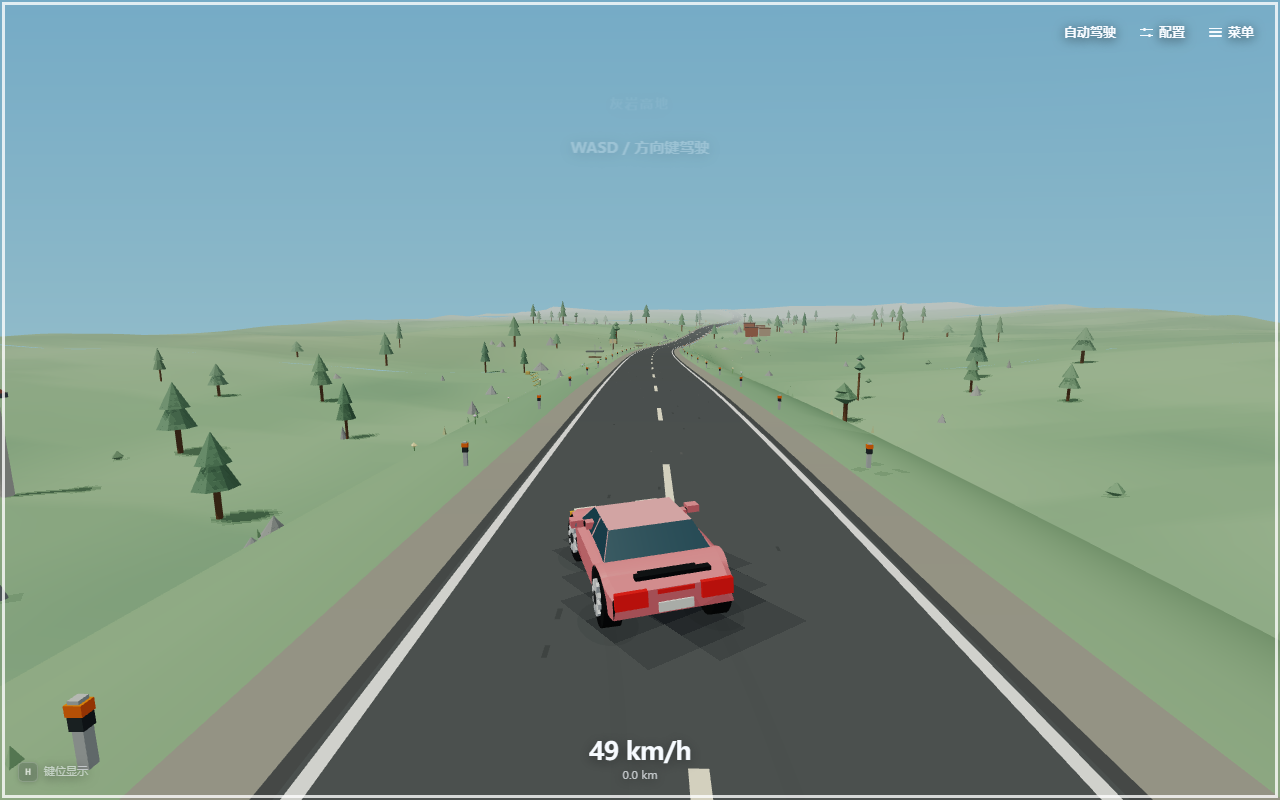
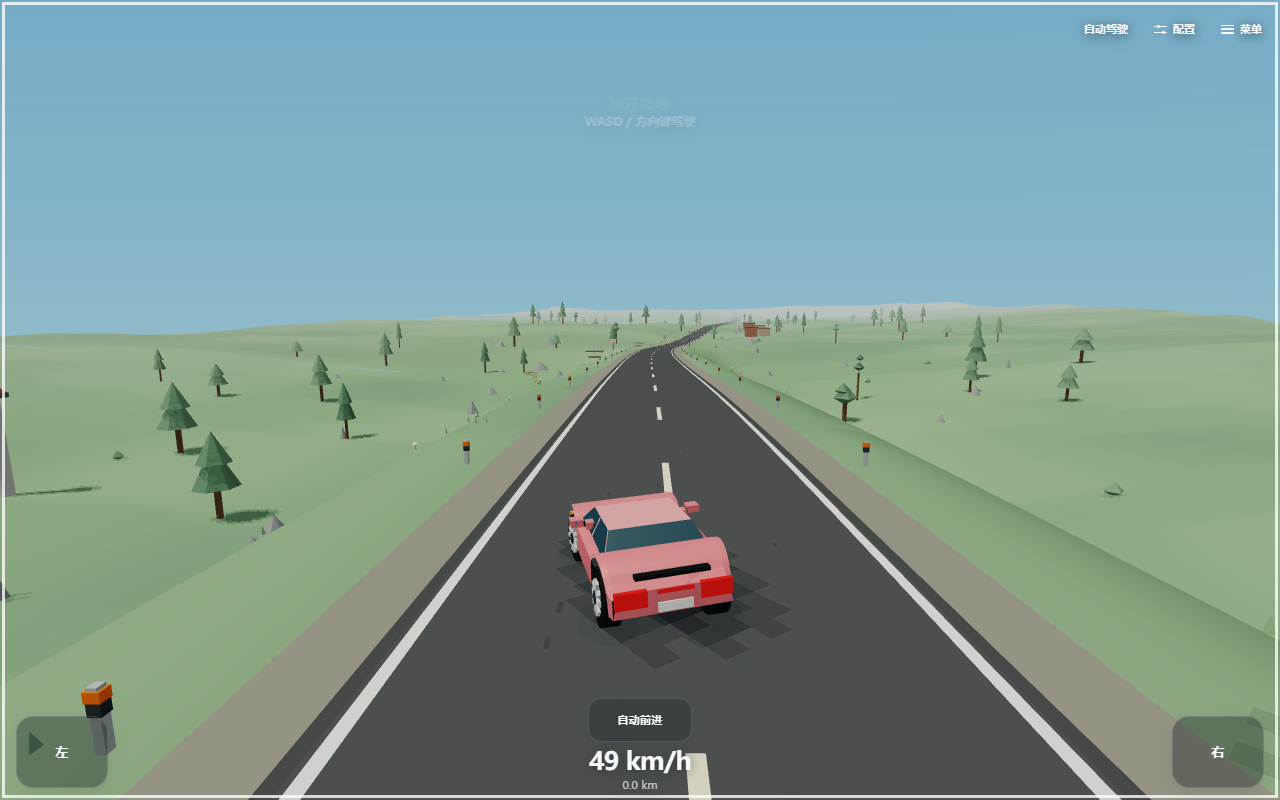
Fix mobile entry, multitouch controls, menu layering and wheel arch clearance

diff --git a/index.html b/index.html
@@ -145,10 +145,15 @@
      presentation remains intact, and coarse-pointer devices keep their essential touch controls.
      Keyboard users can always press U to restore the HUD even when the top-right buttons are hidden. */
   body.clean-ui:not(.garage) #stats,body.clean-ui:not(.garage) #topRight,body.clean-ui:not(.garage) #help,body.clean-ui:not(.garage) #clock,body.clean-ui:not(.garage) #fpsReadout,body.clean-ui:not(.garage) #regionToast,body.clean-ui:not(.garage) #hint{opacity:0!important;pointer-events:none!important}
-  @media (hover:none) and (pointer:coarse){body.clean-ui:not(.garage) #topRight{opacity:1!important;pointer-events:auto!important}}
+  @media all{
+    body.mobile-mode.clean-ui:not(.garage) #topRight{opacity:1!important;pointer-events:auto!important}
+  }
   #regionToast{position:absolute;left:50%;top:12.5%;transform:translate(-50%,-5px);font-size:13px;font-weight:650;letter-spacing:.16em;color:rgba(250,253,255,.88);opacity:0;transition:opacity .65s ease,transform .65s ease;text-shadow:0 2px 16px rgba(0,0,0,.52);white-space:nowrap}
   #regionToast.show{opacity:.92;transform:translate(-50%,0)}
-  #touchControls{display:none;position:absolute;inset:0;pointer-events:none}
+  #touchControls{display:none;position:absolute;inset:0;pointer-events:none;z-index:2}
+  #controlMenu,#configPanel,#aboutPanel,#vehiclePanel{z-index:6}
+  #topRight{z-index:7}
+  body.mobile-mode #controlMenu{max-height:calc(100% - 60px);overflow-y:auto;overscroll-behavior:contain;background:rgba(18,24,31,.96)}
   .touchGroup{display:flex;gap:9px;align-items:end;pointer-events:auto}
   .touchBtn{min-width:76px;height:56px;border-radius:17px;padding:0 10px;font-size:12px;font-weight:700;letter-spacing:.02em;touch-action:none;-webkit-user-select:none;user-select:none;background:rgba(18,24,31,.36);border-color:rgba(255,255,255,.13);box-shadow:0 5px 18px rgba(0,0,0,.08)}
   .touchBtn.primary{width:88px;height:72px;font-size:13px}
@@ -179,57 +184,87 @@
   .paintChoice{width:30px;height:30px;min-width:30px;min-height:30px;padding:0;border-radius:50%;box-shadow:none;border:2px solid rgba(255,255,255,.28)}
   .paintChoice[aria-pressed="true"]{outline:2px solid rgba(255,255,255,.90);outline-offset:2px}
   @media(max-width:700px){#speed{font-size:21px}button{padding:7px 9px}}
-  @media (hover:none) and (pointer:coarse){
-    #touchControls{display:block}
-    #speedFx::before{filter:none;opacity:.72}
-    #speedFx::after{filter:blur(3px)}
-    #help{display:none}.glass,button{backdrop-filter:none;-webkit-backdrop-filter:none}
-    #stats{left:50%;right:auto;top:auto;bottom:max(8px,env(safe-area-inset-bottom));transform:translateX(-50%);text-align:center}
-    #topRight{right:max(9px,env(safe-area-inset-right));top:7px}
-     #configBtn,#menuBtn,#autopilotBtn{font-size:11px;padding:5px 6px}
-    #controlMenu{right:max(8px,env(safe-area-inset-right));top:39px;width:190px;padding:7px}
-    #aboutPanel{right:max(8px,env(safe-area-inset-right));top:39px;width:min(290px,calc(100% - 16px));max-height:calc(100% - 50px)}
-    #controlMenu .menuAction{min-height:30px;padding:6px 8px;font-size:10.5px}
-    #controlMenu .mobileOnly{display:block}
-    #controlMenu .desktopOnly{display:none}
-    #clock{left:max(10px,env(safe-area-inset-left));right:auto;top:10px;bottom:auto;font-size:11px}
-    #fpsReadout{left:max(10px,env(safe-area-inset-left));top:26px;font-size:9.5px}
-    #hint{top:15%;font-size:12px}
-    #vehiclePanel{right:max(8px,env(safe-area-inset-right));top:39px;width:232px;padding:10px}#configPanel{right:max(8px,env(safe-area-inset-right));top:39px;width:284px;padding:9px 10px;max-height:calc(100% - 48px)}.configRow{grid-template-columns:82px 1fr 42px 18px;gap:5px;min-height:27px}.configLabel{font-size:9.5px}.configValue{font-size:9px}.configToggleRow{font-size:9px;min-height:25px}.configCheck{width:14px;height:14px;min-width:14px}
+  @media all{
+    body.mobile-mode #touchControls{display:block}
+    body.mobile-mode #speedFx::before{filter:none;opacity:.72}
+    body.mobile-mode #speedFx::after{filter:blur(3px)}
+    body.mobile-mode #help{display:none}
+    body.mobile-mode .glass,body.mobile-mode button{backdrop-filter:none;-webkit-backdrop-filter:none}
+    body.mobile-mode #stats{left:50%;right:auto;top:auto;bottom:max(8px,env(safe-area-inset-bottom));transform:translateX(-50%);text-align:center}
+    body.mobile-mode #topRight{right:max(9px,env(safe-area-inset-right));top:7px}
+    body.mobile-mode #configBtn,body.mobile-mode #menuBtn,body.mobile-mode #autopilotBtn{font-size:11px;padding:5px 6px}
+    body.mobile-mode #controlMenu{right:max(8px,env(safe-area-inset-right));top:39px;width:190px;padding:7px}
+    body.mobile-mode #aboutPanel{right:max(8px,env(safe-area-inset-right));top:39px;width:min(290px,calc(100% - 16px));max-height:calc(100% - 50px)}
+    body.mobile-mode #controlMenu .menuAction{min-height:30px;padding:6px 8px;font-size:10.5px}
+    body.mobile-mode #controlMenu .mobileOnly{display:block}
+    body.mobile-mode #controlMenu .desktopOnly{display:none}
+    body.mobile-mode #clock{left:max(10px,env(safe-area-inset-left));right:auto;top:10px;bottom:auto;font-size:11px}
+    body.mobile-mode #fpsReadout{left:max(10px,env(safe-area-inset-left));top:26px;font-size:9.5px}
+    body.mobile-mode #hint{top:15%;font-size:12px}
+    body.mobile-mode #vehiclePanel{right:max(8px,env(safe-area-inset-right));top:39px;width:232px;padding:10px}
+    body.mobile-mode #configPanel{right:max(8px,env(safe-area-inset-right));top:39px;width:284px;padding:9px 10px;max-height:calc(100% - 48px)}
+    body.mobile-mode .configRow{grid-template-columns:82px 1fr 42px 18px;gap:5px;min-height:27px}
+    body.mobile-mode .configLabel{font-size:9.5px}
+    body.mobile-mode .configValue{font-size:9px}
+    body.mobile-mode .configToggleRow{font-size:9px;min-height:25px}
+    body.mobile-mode .configCheck{width:14px;height:14px;min-width:14px}
   }
-  @media (hover:none) and (pointer:coarse) and (max-height:410px){
-    .touchBtn{height:46px;min-width:66px}.touchBtn.primary{width:76px;height:62px}#touchPedals{grid-template-columns:68px 68px}#touchBrake{width:143px}#touchSimple .simpleSteer{width:82px;height:62px}#touchAutoForward{bottom:52px;height:36px;min-width:94px;font-size:10px}
-    #topRight{right:6px;top:5px} #configBtn,#menuBtn,#autopilotBtn{font-size:10px;padding:4px 5px}#controlMenu{right:6px;top:34px;width:176px}#controlMenu .menuAction{min-height:27px;padding:5px 7px;font-size:9.5px}#aboutPanel{right:6px;top:34px;width:min(276px,calc(100% - 12px))}
-    #stats{bottom:7px}#speed{font-size:19px}#distance{font-size:11px;margin-top:3px}
+  @media (max-height:410px){
+    body.mobile-mode .touchBtn{height:46px;min-width:66px}
+    body.mobile-mode .touchBtn.primary{width:76px;height:62px}
+    body.mobile-mode #touchPedals{grid-template-columns:68px 68px}
+    body.mobile-mode #touchBrake{width:143px}
+    body.mobile-mode #touchSimple .simpleSteer{width:82px;height:62px}
+    body.mobile-mode #touchAutoForward{bottom:52px;height:36px;min-width:94px;font-size:10px}
+    body.mobile-mode #topRight{right:6px;top:5px}
+    body.mobile-mode #configBtn,body.mobile-mode #menuBtn,body.mobile-mode #autopilotBtn{font-size:10px;padding:4px 5px}
+    body.mobile-mode #controlMenu{right:6px;top:34px;width:176px}
+    body.mobile-mode #controlMenu .menuAction{min-height:27px;padding:5px 7px;font-size:9.5px}
+    body.mobile-mode #aboutPanel{right:6px;top:34px;width:min(276px,calc(100% - 12px))}
+    body.mobile-mode #stats{bottom:7px}
+    body.mobile-mode #speed{font-size:19px}
+    body.mobile-mode #distance{font-size:11px;margin-top:3px}
   }
   /* Garage / title presentation: the same WebGL car is shown live before driving starts. */
   #garageOverlay{position:absolute;inset:0;z-index:8;display:flex;align-items:flex-end;justify-content:space-between;padding:clamp(24px,5vw,72px);pointer-events:none;transition:opacity .35s ease,visibility .35s ease}
   #garageCard{max-width:420px;padding:22px 24px;border-left:2px solid rgba(255,255,255,.72);background:linear-gradient(90deg,rgba(12,17,22,.38),rgba(12,17,22,0));text-shadow:0 3px 18px rgba(0,0,0,.48)}
   #garageTitle{font-size:clamp(34px,5vw,68px);line-height:.92;font-weight:760;letter-spacing:-.055em}
   #garageSub{margin-top:10px;font-size:12px;color:rgba(247,251,255,.70);letter-spacing:.18em}
-  #garageActions{margin-top:19px;display:flex;gap:8px;pointer-events:auto}
+  #garageActions{margin-top:19px;display:grid;grid-template-columns:auto auto;gap:8px;pointer-events:auto}
+  #garageMobileStart{grid-row:2;grid-column:1 / -1}
   #garageActions button{min-height:40px;padding:9px 15px;border-radius:11px;font-size:12px;font-weight:680}
   #garageStart{background:rgba(239,247,246,.92);color:#243039;text-shadow:none;border-color:rgba(255,255,255,.72)}
   #garageVehicle{background:rgba(15,23,29,.42)}
   #garageTip{position:absolute;right:clamp(22px,4vw,58px);bottom:clamp(24px,5vw,66px);font-size:10px;letter-spacing:.12em;color:rgba(247,251,255,.48)}
   body.garage canvas{cursor:grab;touch-action:none}body.garage canvas:active{cursor:grabbing}
   body:not(.garage) #garageOverlay{opacity:0;visibility:hidden}
+  body:not(.garage) #garageActions,body:not(.garage) #garageActions button{pointer-events:none}
   body.garage #stats,body.garage #topRight,body.garage #help,body.garage #touchControls,body.garage #hint,body.garage #regionToast{opacity:0!important;pointer-events:none!important}
   body.garage #clock,body.garage #fpsReadout{opacity:.55}
-  @media (hover:none) and (pointer:coarse){#garageOverlay{padding:18px 22px}#garageCard{padding:14px 16px;max-width:330px}#garageSub{font-size:9px}#garageActions button{min-height:34px;padding:7px 12px;font-size:10px}#garageTip{display:none}}
+  @media all{
+    body.mobile-mode #garageOverlay{padding:18px 22px}
+    body.mobile-mode #garageCard{padding:14px 16px;max-width:330px}
+    body.mobile-mode #garageSub{font-size:9px}
+    body.mobile-mode #garageActions button{min-height:34px;padding:7px 12px;font-size:10px}
+    body.mobile-mode #garageTip{display:none}
+  }
   /* Accessibility / touch maintenance: keep coarse-pointer targets finger-sized without changing the compact desktop visual language. */
-  @media (hover:none) and (pointer:coarse){
-    #configBtn,#menuBtn,#autopilotBtn{min-width:44px!important;min-height:44px!important;padding:8px 9px!important}
-    #controlMenu .menuAction{min-height:44px!important;font-size:12px!important}
-    #configPanel{width:min(340px,calc(100% - 16px))!important}
-    .configTabs{gap:4px}.configTab{height:44px!important;min-height:44px!important;font-size:12px!important}
-    .configRow{grid-template-columns:92px 1fr 50px 44px!important;gap:6px!important;min-height:44px!important}
-    .configLabel{font-size:12px!important}.configValue{font-size:10.5px!important}.configRange{height:44px!important}
-    .configRange::-webkit-slider-thumb{width:20px;height:20px;margin-top:-9px}.configRange::-moz-range-thumb{width:20px;height:20px}
-    .configToggleRow{grid-template-columns:1fr 22px 44px!important;min-height:44px!important;font-size:12px!important}
-    .configCheck{width:20px!important;height:20px!important;min-width:20px!important}
-    .configItemReset{width:44px!important;height:44px!important;min-width:44px!important;min-height:44px!important}
-    #garageActions button{min-height:44px!important;font-size:12px!important}
+  @media all{
+    body.mobile-mode #configBtn,body.mobile-mode #menuBtn,body.mobile-mode #autopilotBtn{min-width:44px!important;min-height:44px!important;padding:8px 9px!important}
+    body.mobile-mode #controlMenu .menuAction{min-height:44px!important;font-size:12px!important}
+    body.mobile-mode #configPanel{width:min(340px,calc(100% - 16px))!important}
+    body.mobile-mode .configTabs{gap:4px}
+    body.mobile-mode .configTab{height:44px!important;min-height:44px!important;font-size:12px!important}
+    body.mobile-mode .configRow{grid-template-columns:92px 1fr 50px 44px!important;gap:6px!important;min-height:44px!important}
+    body.mobile-mode .configLabel{font-size:12px!important}
+    body.mobile-mode .configValue{font-size:10.5px!important}
+    body.mobile-mode .configRange{height:44px!important}
+    body.mobile-mode .configRange::-webkit-slider-thumb{width:20px;height:20px;margin-top:-9px}
+    body.mobile-mode .configRange::-moz-range-thumb{width:20px;height:20px}
+    body.mobile-mode .configToggleRow{grid-template-columns:1fr 22px 44px!important;min-height:44px!important;font-size:12px!important}
+    body.mobile-mode .configCheck{width:20px!important;height:20px!important;min-width:20px!important}
+    body.mobile-mode .configItemReset{width:44px!important;height:44px!important;min-width:44px!important;min-height:44px!important}
+    body.mobile-mode #garageActions button{min-height:44px!important;font-size:12px!important}
   }
   @media (prefers-reduced-motion: reduce){
     .windStreak{animation:none!important}#speedFx,#windFx{display:none!important}
@@ -237,10 +272,9 @@
     .menuMorph i,.configMorph i,.actionSvg *,.configGroupSummary::after,.configItemReset,#hint,#regionToast,#garageOverlay,#help .helpSummary,#help .helpDetails{transition:none!important}
   }
   /* Portrait phones still render the game as a landscape surface. No orientation lock or sensor takeover. */
-  @media (hover:none) and (pointer:coarse) and (orientation:portrait){
-    canvas,#ui{position:fixed;inset:auto;left:50%;top:50%;width:100vh;height:100vw;transform:translate(-50%,-50%) rotate(90deg);transform-origin:center center}
-    /* The whole UI is rotated, so its local vertical scroll axis maps to the device X axis. */
-    #configPanel,.configRange,.configToggleRow,.configCheck,.configGroupSummary{touch-action:pan-x}
+  @media (orientation:portrait){
+    body.mobile-mode canvas,body.mobile-mode #ui{position:fixed;inset:auto;left:50%;top:50%;width:100vh;height:100vw;transform:translate(-50%,-50%) rotate(90deg);transform-origin:center center}
+    body.mobile-mode #configPanel,body.mobile-mode .configRange,body.mobile-mode .configToggleRow,body.mobile-mode .configCheck,body.mobile-mode .configGroupSummary{touch-action:pan-x}
   }
 </style>
 </head>
@@ -253,6 +287,7 @@
       <div id="garageSub">DRIVE · BREATHE · KEEP GOING</div>
       <div id="garageActions">
         <button id="garageStart" type="button">开始驾驶</button>
+        <button id="garageMobileStart" type="button">移动端开始 · 触控驾驶</button>
         <button id="garageVehicle" type="button">查看载具</button>
       </div>
     </div>
@@ -507,7 +542,13 @@ const $touchAutoForward = document.getElementById('touchAutoForward');
 const $garageOverlay = document.getElementById('garageOverlay');
 const $garageStart = document.getElementById('garageStart');
 const $garageVehicle = document.getElementById('garageVehicle');
-const IS_COARSE_POINTER = window.matchMedia ? window.matchMedia('(hover:none) and (pointer:coarse)').matches : false;
+let IS_COARSE_POINTER = (navigator.maxTouchPoints||0)>0 || !!window.matchMedia?.('(any-pointer:coarse)').matches;
+try{IS_COARSE_POINTER=IS_COARSE_POINTER||localStorage.getItem('driftway-mobile-mode')==='true';}catch(_){}
+document.body.classList.toggle('mobile-mode',IS_COARSE_POINTER);
+function enableMobileMode(){
+  IS_COARSE_POINTER=true;document.body.classList.add('mobile-mode');
+  try{localStorage.setItem('driftway-mobile-mode','true');}catch(_){}
+}
 const REDUCED_MOTION_QUERY = window.matchMedia ? window.matchMedia('(prefers-reduced-motion: reduce)') : {matches:false};
 const reducedMotionActive = ()=>!!REDUCED_MOTION_QUERY.matches;
 
@@ -1029,7 +1070,7 @@ class Renderer{
     this.shadowStatus=parts.length?parts.join(' + '):'投影';
   }
   resize(){
-    const touchCoarse=matchMedia('(hover:none) and (pointer:coarse)').matches,forcedLandscape=touchCoarse&&innerHeight>innerWidth;
+    const forcedLandscape=IS_COARSE_POINTER&&innerHeight>innerWidth;
     const cssW=forcedLandscape?innerHeight:innerWidth,cssH=forcedLandscape?innerWidth:innerHeight;
     const dpr=Math.min(window.devicePixelRatio||1,this.maxDpr)*clamp(this.renderScale,.50,1.50), w=Math.max(2,Math.floor(cssW*dpr)), h=Math.max(2,Math.floor(cssH*dpr));
     if(canvas.width!==w||canvas.height!==h){canvas.width=w;canvas.height=h;} this.gl.viewport(0,0,w,h);
@@ -1139,6 +1180,7 @@ function appendRock(b,x,y,z,r,h,c,rng){
 function createBoxMesh(gl,c){const b=new Builder();appendBox(b,0,0,0,1,1,1,c);const a=b.arrays(),m=new Mesh(gl);m.update(a[0],a[1]);return m;}
 // A continuous coachbuilt shell, with open wheel arches (not boxes over the tyres).
 // All dimensions are metres; generated vertices remain embedded in this document.
+const WHEEL_ARCH_RADIUS=.48,WHEEL_MAX_BUMP=.10,WHEEL_MOUNT_Y=-.09;
 function createCoachMesh(gl,st,paint,cabin=false){
   const b=new Builder(),face=(a,d,e,f,c)=>{const u=d.map((v,i)=>v-a[i]),v=e.map((n,i)=>n-a[i]);let n=[u[1]*v[2]-u[2]*v[1],u[2]*v[0]-u[0]*v[2],u[0]*v[1]-u[1]*v[0]],l=Math.hypot(...n)||1;b.quad(a,d,e,f,n.map(v=>v/l),c);};
   if(cabin){
@@ -1160,7 +1202,7 @@ function createCoachMesh(gl,st,paint,cabin=false){
   }else{
     const len=st.body[2],half=st.body[0]/2,N=100;
     const section=z=>{const t=Math.abs(z)/(len/2),w=half*(1-.10*Math.pow(t,5));let bottom=-.12;
-      for(const axle of [st.frontZ,st.rearZ]){const dz=z-axle;if(Math.abs(dz)<.46)bottom=Math.max(bottom,-.11+Math.sqrt(.46*.46-dz*dz));}
+      for(const axle of [st.frontZ,st.rearZ]){const dz=z-axle;if(Math.abs(dz)<WHEEL_ARCH_RADIUS)bottom=Math.max(bottom,WHEEL_MOUNT_Y+WHEEL_MAX_BUMP+Math.sqrt(WHEEL_ARCH_RADIUS**2-dz*dz));}
       const top=.38-.16*Math.pow(t,3);return [[-w,bottom,z],[-w,Math.max(bottom+.018,top-.07),z],[-w*.90,Math.max(bottom+.025,top),z],[w*.90,Math.max(bottom+.025,top),z],[w,Math.max(bottom+.018,top-.07),z],[w,bottom,z]];};
     let prev=section(-len/2);
     for(let j=1;j<=N;j++){const next=section(-len/2+len*j/N);for(let k=0;k<5;k++)face(prev[k],next[k],next[k+1],prev[k+1],paint);prev=next;}
@@ -1836,14 +1878,15 @@ class ChunkManager{
 */
 class Input{
   constructor(){
-    this.keys=new Set();this.just=new Set();this.virtualKeys=new Set();
+    this.keys=new Set();this.just=new Set();this.virtualKeys=new Set();this.touchPointers=new Map();
     addEventListener('keydown',e=>{
       if(this.isInteractiveTarget(e.target))return;
       const k=e.code;if(['ArrowUp','ArrowDown','ArrowLeft','ArrowRight','Space'].includes(k))e.preventDefault();
       if(!this.keys.has(k))this.just.add(k);this.keys.add(k);game?.audio.ensureStarted();
     },{passive:false});
     addEventListener('keyup',e=>this.keys.delete(e.code));
-    addEventListener('blur',()=>{if(document.hidden||!document.hasFocus()){this.keys.clear();this.virtualKeys.clear();$touchControls?.querySelectorAll('.active').forEach(btn=>btn.classList.remove('active'));}});
+    addEventListener('blur',()=>{if(document.hidden||!document.hasFocus()){this.keys.clear();this.clearTouch();}});
+    document.addEventListener('visibilitychange',()=>{if(document.hidden){this.keys.clear();this.clearTouch();}});
     this.bindTouchControls();
   }
   isInteractiveTarget(target){return target instanceof Element && !!target.closest('button,input,select,textarea,a,[role="button"]');}
@@ -1851,11 +1894,24 @@ class Input{
     if(!$touchControls)return;
     for(const btn of $touchControls.querySelectorAll('[data-key]')){
       const code=btn.dataset.key;
-      const release=e=>{this.virtualKeys.delete(code);btn.classList.remove('active');try{if(e&&Number.isFinite(e.pointerId)&&btn.hasPointerCapture?.(e.pointerId))btn.releasePointerCapture(e.pointerId);}catch(_){}};
-      btn.addEventListener('pointerdown',e=>{e.preventDefault();btn.setPointerCapture?.(e.pointerId);if(!this.virtualKeys.has(code))this.just.add(code);this.virtualKeys.add(code);btn.classList.add('active');game?.audio.ensureStarted();},{passive:false});
+      const release=e=>{
+        if(this.touchPointers.get(e.pointerId)?.button!==btn)return;
+        this.touchPointers.delete(e.pointerId);
+        if(![...this.touchPointers.values()].some(p=>p.code===code))this.virtualKeys.delete(code);
+        if(![...this.touchPointers.values()].some(p=>p.button===btn))btn.classList.remove('active');
+        try{if(btn.hasPointerCapture?.(e.pointerId))btn.releasePointerCapture(e.pointerId);}catch(_){}
+      };
+      btn.addEventListener('pointerdown',e=>{
+        e.preventDefault();if(e.pointerType==='mouse'&&e.button!==0)return;
+        this.touchPointers.set(e.pointerId,{code,button:btn});
+        if(!this.virtualKeys.has(code))this.just.add(code);this.virtualKeys.add(code);btn.classList.add('active');
+        try{btn.setPointerCapture?.(e.pointerId);}catch(_){}
+        game?.audio.ensureStarted();
+      },{passive:false});
       btn.addEventListener('pointerup',release);btn.addEventListener('pointercancel',release);btn.addEventListener('lostpointercapture',release);
     }
   }
+  clearTouch(){this.touchPointers.clear();this.virtualKeys.clear();$touchControls?.querySelectorAll('.active').forEach(btn=>btn.classList.remove('active'));}
   down(...codes){for(const c of codes)if(this.keys.has(c)||this.virtualKeys.has(c))return true;return false;}
   take(code){if(this.just.has(code)){this.just.delete(code);return true;}return false;}
   clearCode(code){this.keys.delete(code);this.virtualKeys.delete(code);this.just.delete(code);}
@@ -1938,6 +1994,13 @@ class Vehicle{
     if(this.y<floor){this.y=floor;this.heaveVel=Math.max(0,this.heaveVel)*.1;}
     this.pitch=clamp(this.pitch,-.65,.65);this.roll=clamp(this.roll,-.55,.55);
     if(Math.abs(this.pitch)>=.65)this.pitchVel=0;if(Math.abs(this.roll)>=.55)this.rollVel=0;
+    // Keep the shell's rendered arch above the tyre envelope without injecting an
+    // artificial vertical impulse into the tyre-load solver on a sharp road seam.
+    this.bodyVisualLift=0;
+    for(let i=0;i<4;i++){
+      const [lx,lz]=locals[i],nominal=this.y+WHEEL_MOUNT_Y+Math.sin(this.pitch)*lz+Math.sin(this.roll)*lx;
+      this.bodyVisualLift=Math.max(this.bodyVisualLift,this.wheelCenterY[i]-nominal-WHEEL_MAX_BUMP);
+    }
     this.accelVisual=expLerp(this.accelVisual,clamp(accel/15,-1,1),5,dt);
   }
   updateGroundEffects(dt,onRoad,travelSpeed,brake,hand,yawRate){
@@ -1998,7 +2061,8 @@ class Vehicle{
     const speedAbs=Math.abs(this.speed),wheelbase=this.style.frontZ-this.style.rearZ;
     const maxSteer=vehicleSteerLimit(speedAbs,this.world.settings,wheelbase);
     this.targetSteer=targetSteerInput*maxSteer;
-    this.currentSteer=expLerp(this.currentSteer,this.targetSteer,8,dt);
+    const touchSteering=!autoControl&&(input.virtualKeys?.has('ArrowLeft')||input.virtualKeys?.has('ArrowRight'));
+    this.currentSteer=expLerp(this.currentSteer,this.targetSteer,touchSteering?13:8,dt);
     // Integrate tyre and suspension forces at <=120 Hz regardless of rendering FPS.
     const motionSteps=Math.max(1,Math.ceil(dt/(1/120))),motionDt=dt/motionSteps;let yawRate=0;
     for(let ms=0;ms<motionSteps;ms++){
@@ -2065,7 +2129,7 @@ class Vehicle{
     // Keep the rendered wheelbase matched to the four sampled contact patches. A large speed-based
     // model scale looked good for FOV compensation but made tyres drift away from their ground
     // samples on slopes. A tiny 2% compensation is enough without breaking contact geometry.
-    const visualScale=1,visualY=this.y;M4.fromTRS(this.base,this.x,visualY,this.z,this.yaw,-this.pitch,this.roll,visualScale,visualScale,visualScale);
+    const visualScale=1,visualY=this.y+(this.bodyVisualLift||0);M4.fromTRS(this.base,this.x,visualY,this.z,this.yaw,-this.pitch,this.roll,visualScale,visualScale,visualScale);
     const drawPart=(mesh,x,y,z,sx,sy,sz,yaw=0,pitch=0,roll=0,em=0,alpha=1,blend=false,specular=0)=>{M4.fromTRS(this.local,x,y,z,yaw,pitch,roll,sx,sy,sz);M4.multiply(this.model,this.base,this.local);renderer.draw(mesh,this.model,em,alpha,blend,true,specular);};
     // Four contact shadows and four independent wheel transforms. Tyres stay pinned to ground + radius;
     // the bump-stop clearance constraint above moves the chassis once a wheel runs out of compression
@@ -2080,7 +2144,7 @@ class Vehicle{
     drawPart(this.darkTrim,0,-.055,halfL-.10,b[0]*.82,.11,.13,0,0,0,0,1,false,.05);
     drawPart(this.darkTrim,0,-.060,-halfL+.08,b[0]*.86,.12,.14,0,0,0,0,1,false,.04);
     for(const side of [-1,1]){
-      drawPart(this.darkTrim,side*(halfW-.055),-.025,b[4]-.02,.085,.10,b[2]*.76,0,0,0,0,1,false,.04);
+      drawPart(this.darkTrim,side*(halfW-.055),-.025,(frontZ+rearZ)*.5,.085,.10,frontZ-rearZ-2*WHEEL_ARCH_RADIUS,0,0,0,0,1,false,.04);
       // Mirror base + short arm + housing.  The old housing floated beside the cabin because there
       // was no geometry bridging it back to the A-pillar/door shoulder.
       const cabinHalf=c[0]*.5;
@@ -2623,6 +2687,12 @@ class Game{
     // Mouse clicks on HUD controls must not interrupt a held driving key.
     for(const btn of [$configBtn,$configResetBtn,$menuBtn,$envBtn,$vehicleBtn,$autoBtn,$autopilotBtn,$touchAutoForward,$mobileCameraBtn,$mobileResetBtn,$mobileLayoutBtn,$pauseBtn,$aboutBtn,$aboutCloseBtn,$seedApplyBtn,$garageStart,$garageVehicle])if(btn)btn.addEventListener('mousedown',e=>e.preventDefault());
     if($garageStart)$garageStart.onclick=()=>this.paused?this.togglePause(false):this.startDriving();
+    document.getElementById('garageMobileStart').onclick=()=>{
+      enableMobileMode();this.renderer.maxDpr=Math.min(this.renderer.maxDpr,1.25);
+      this.quality.dpr=[1.25,1.12,1.0,.90,.90,.90,.90];
+      this.touchLayout=2;this.applyTouchLayout();
+      if(this.paused)this.togglePause(false);else this.startDriving();
+    };
     if($garageVehicle)$garageVehicle.onclick=()=>{this.ui.toggleAbout(false);this.ui.toggleConfigPanel(false);this.ui.toggleMenu(false);this.ui.toggleVehiclePanel();};
     if($configBtn)$configBtn.onclick=()=>{this.ui.toggleAbout(false);this.ui.toggleVehiclePanel(false);this.ui.toggleMenu(false);this.ui.toggleConfigPanel();};
     const helpSummary=$help?.querySelector('.helpSummary');if(helpSummary){helpSummary.addEventListener('click',()=>this.ui.toggleHelp());helpSummary.addEventListener('keydown',e=>{if(e.code==='Enter'||e.code==='Space'){e.preventDefault();this.ui.toggleHelp();}});}
@@ -2675,7 +2745,7 @@ class Game{
     const wasPaused=this.paused,wasStarted=this.started,qualityLevel=this.quality.level;
     if(this.autopilot.enabled)this.toggleAutopilot(false);
     if(this.autoForward)this.toggleAutoForward(false);
-    this.input.keys.clear();this.input.virtualKeys.clear();this.input.just.clear();
+    this.input.keys.clear();this.input.clearTouch();this.input.just.clear();
 
     const oldWorld=this.world;
     const newWorld=new ChunkManager(this.gl,nextSeed,this.settings);
@@ -2738,7 +2808,7 @@ class Game{
       // lets a vertical finger movement scroll the panel even when it starts on a slider. Only the
       // CSS-rotated portrait fallback needs custom coordinate mapping. There we wait for clear
       // slider intent before capturing the pointer, so a scroll gesture is never stolen on touch-down.
-      if(IS_COARSE_POINTER){
+      {
         let dragId=null,startX=0,startY=0,dragging=false,customGesture=false;
         const setFromPointer=e=>{
           const r=input.getBoundingClientRect(),forcedLandscape=innerHeight>innerWidth;
@@ -2753,7 +2823,7 @@ class Game{
         };
         input.addEventListener('pointerdown',e=>{
           // Landscape phones use the native range implementation; it now coexists with vertical scroll.
-          customGesture=innerHeight>innerWidth;if(!customGesture)return;
+          customGesture=IS_COARSE_POINTER&&innerHeight>innerWidth;if(!customGesture)return;
           dragId=e.pointerId;startX=e.clientX;startY=e.clientY;dragging=false;
         },{passive:true});
         input.addEventListener('pointermove',e=>{
@@ -2883,6 +2953,7 @@ class Game{
   requestFrame(){if(!this.rafId&&this.running&&!this.pageHidden&&(!this.paused||this.pausePreview))this.rafId=requestAnimationFrame(this.frameBound);}
   togglePause(force){
     const next=typeof force==='boolean'?force:!this.paused;if(next===this.paused)return;
+    this.input.clearTouch();
     this.paused=next;this.ui.toggleAbout(false);this.ui.toggleMenu(false);this.ui.setPaused(next);this.audio.setPaused(next);this.last=performance.now();this.nextFrameAt=0;this.previewShadowAt=0;
     document.body.classList.toggle('garage',next);
     if(next){

diff --git a/README.md b/README.md
@@ -122,6 +122,10 @@ screenshots/
 
 移动端提供横屏触控按钮，并可切换不同左右手布局。
 
+若手机浏览器没有自动显示触控键，可在开始界面点击“移动端开始 · 触控驾驶”。此入口会记住移动模式，并打开左转向、右踏板布局；竖屏仍使用横屏旋转布局。移动识别同时检查触摸点能力与粗指针，不再要求浏览器必须报告“无悬停”。
+
+触控键按每根手指独立记录，支持油门与转向同时按住；触控转向响应比键盘更快，但高速仍保留抓地与转向角限制。移动菜单/配置面板位于键位之上，菜单过长时可滚动。
+
 ## 配置
 
 游戏内「配置」面板目前包含：
@@ -237,12 +241,14 @@ screenshots/
 
 - `index.html` 开头有按搜索锚点组织的维护目录，不依赖易变行号。
 - 连续车身几何、斜风挡、车窗立柱与开口轮拱均在文件内生成；保留四种车型与换色。
+- 轮拱包含压缩行程余量，侧裙不跨越轮拱；车壳显示位置按轮胎包络做间隙修正，不把显示修正注入物理载荷计算，也不把轮胎压进地面。
 - 轮胎侧向力受接地载荷、路面、雨天和制动占用的抓地力限制；手刹降低后轴抓地，不再直接放大车头旋转。
 - 四轮弹簧支撑与重力驱动车身，坡顶允许离地。速度感增强仅影响镜头和视觉，不再放大位移速度。
 - 自动驾驶预测共用轮胎计算；预测仍假设平面支撑，不等同于完整悬挂预测。普通道路也会提前考虑弯道抓地上限。
 - 自动驾驶使用统一前视与转向不足补偿，弯中限制制动以保留侧向抓地；偏出道路后减速回归，不再沿用约 200 km/h 的旧恢复速度。
 - 开发回归：`node tests/vehicle-check.cjs`。浏览器检查脚本 `tests/browser-check.cjs` 需要开发环境中的 Playwright 与 Edge；游戏本身不需要它们。测试文件和截图都不是运行依赖，发布仍只需要一个 HTML。
 - 本轮验证：基础受力、重刹转向、悬挂平衡、离地/落地、倒车恢复检查通过；本地无头 Edge 的种子 73129 干路及种子 42 湿路，四种车型各模拟 60 秒（8 组），最大中心偏移 2.18 m，小于测试安全边界 2.32 m，未捕获脚本异常。这不覆盖所有种子、极端参数、移动设备或主观驾驶体验。
+- 移动回归：`tests/mobile-check.cjs` 检查识别失效时的手动入口、竖屏尺寸、选择持久化、双指油门+转向、独立松开/取消及菜单与踏板重叠处的点击层级。使用 Edge 触控模拟，不代表实际手机或所有内置浏览器验收。
 
 ---
 
